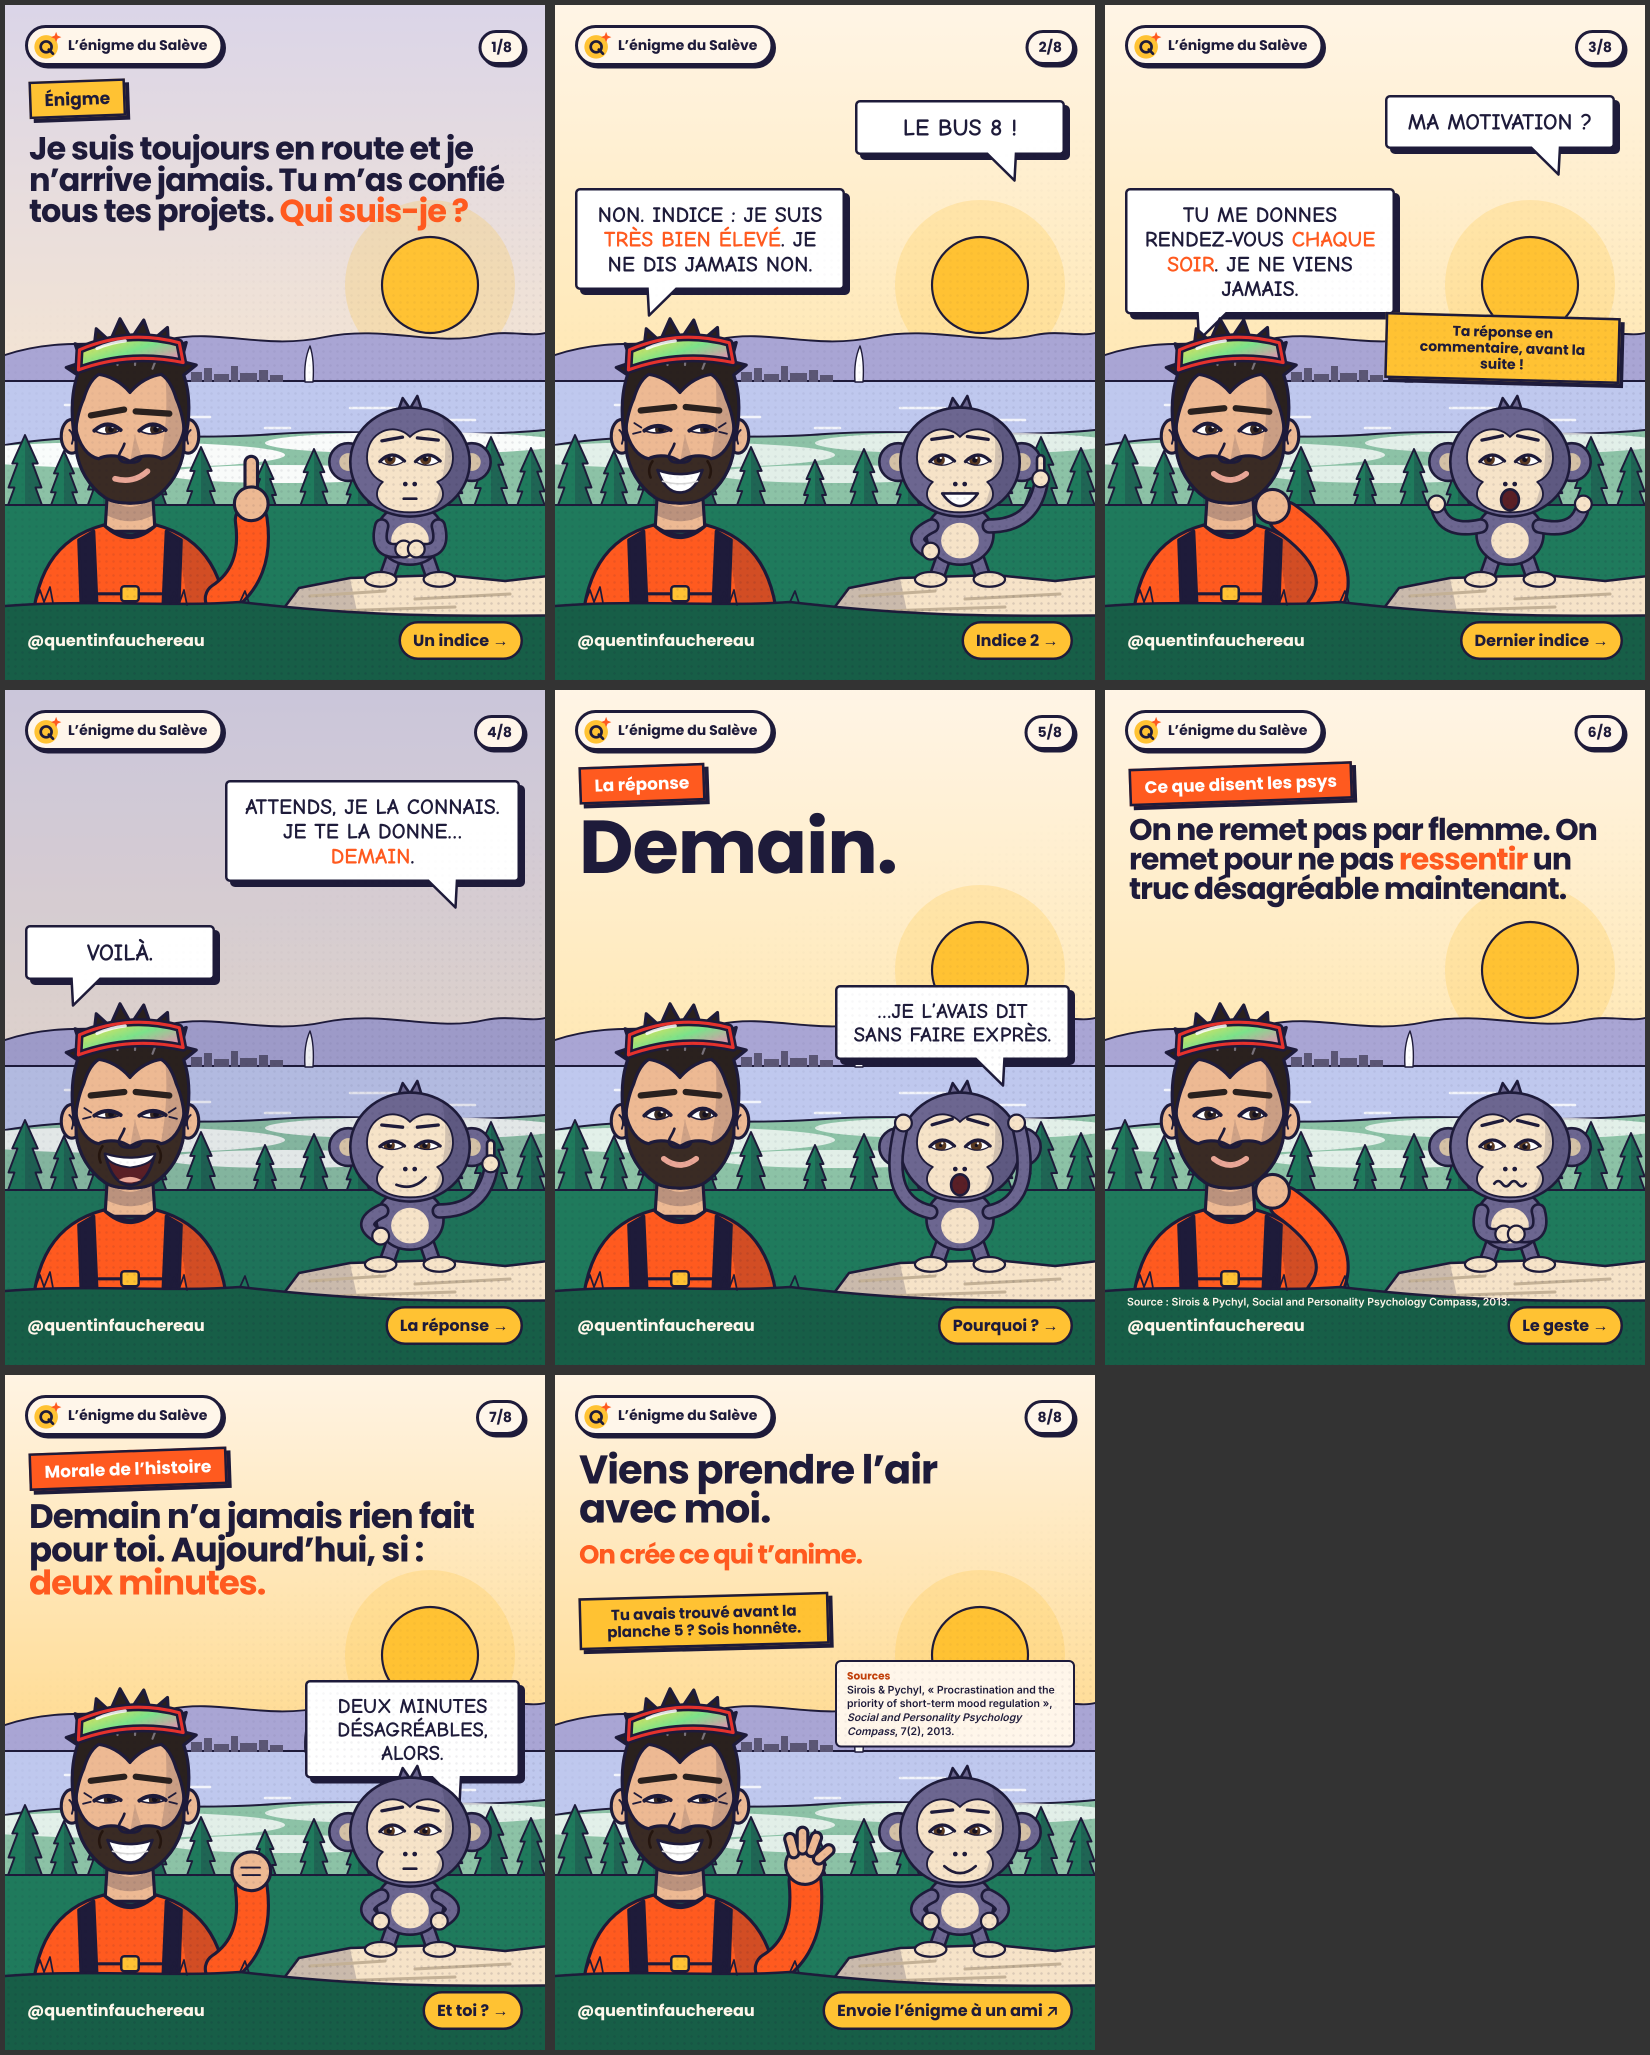
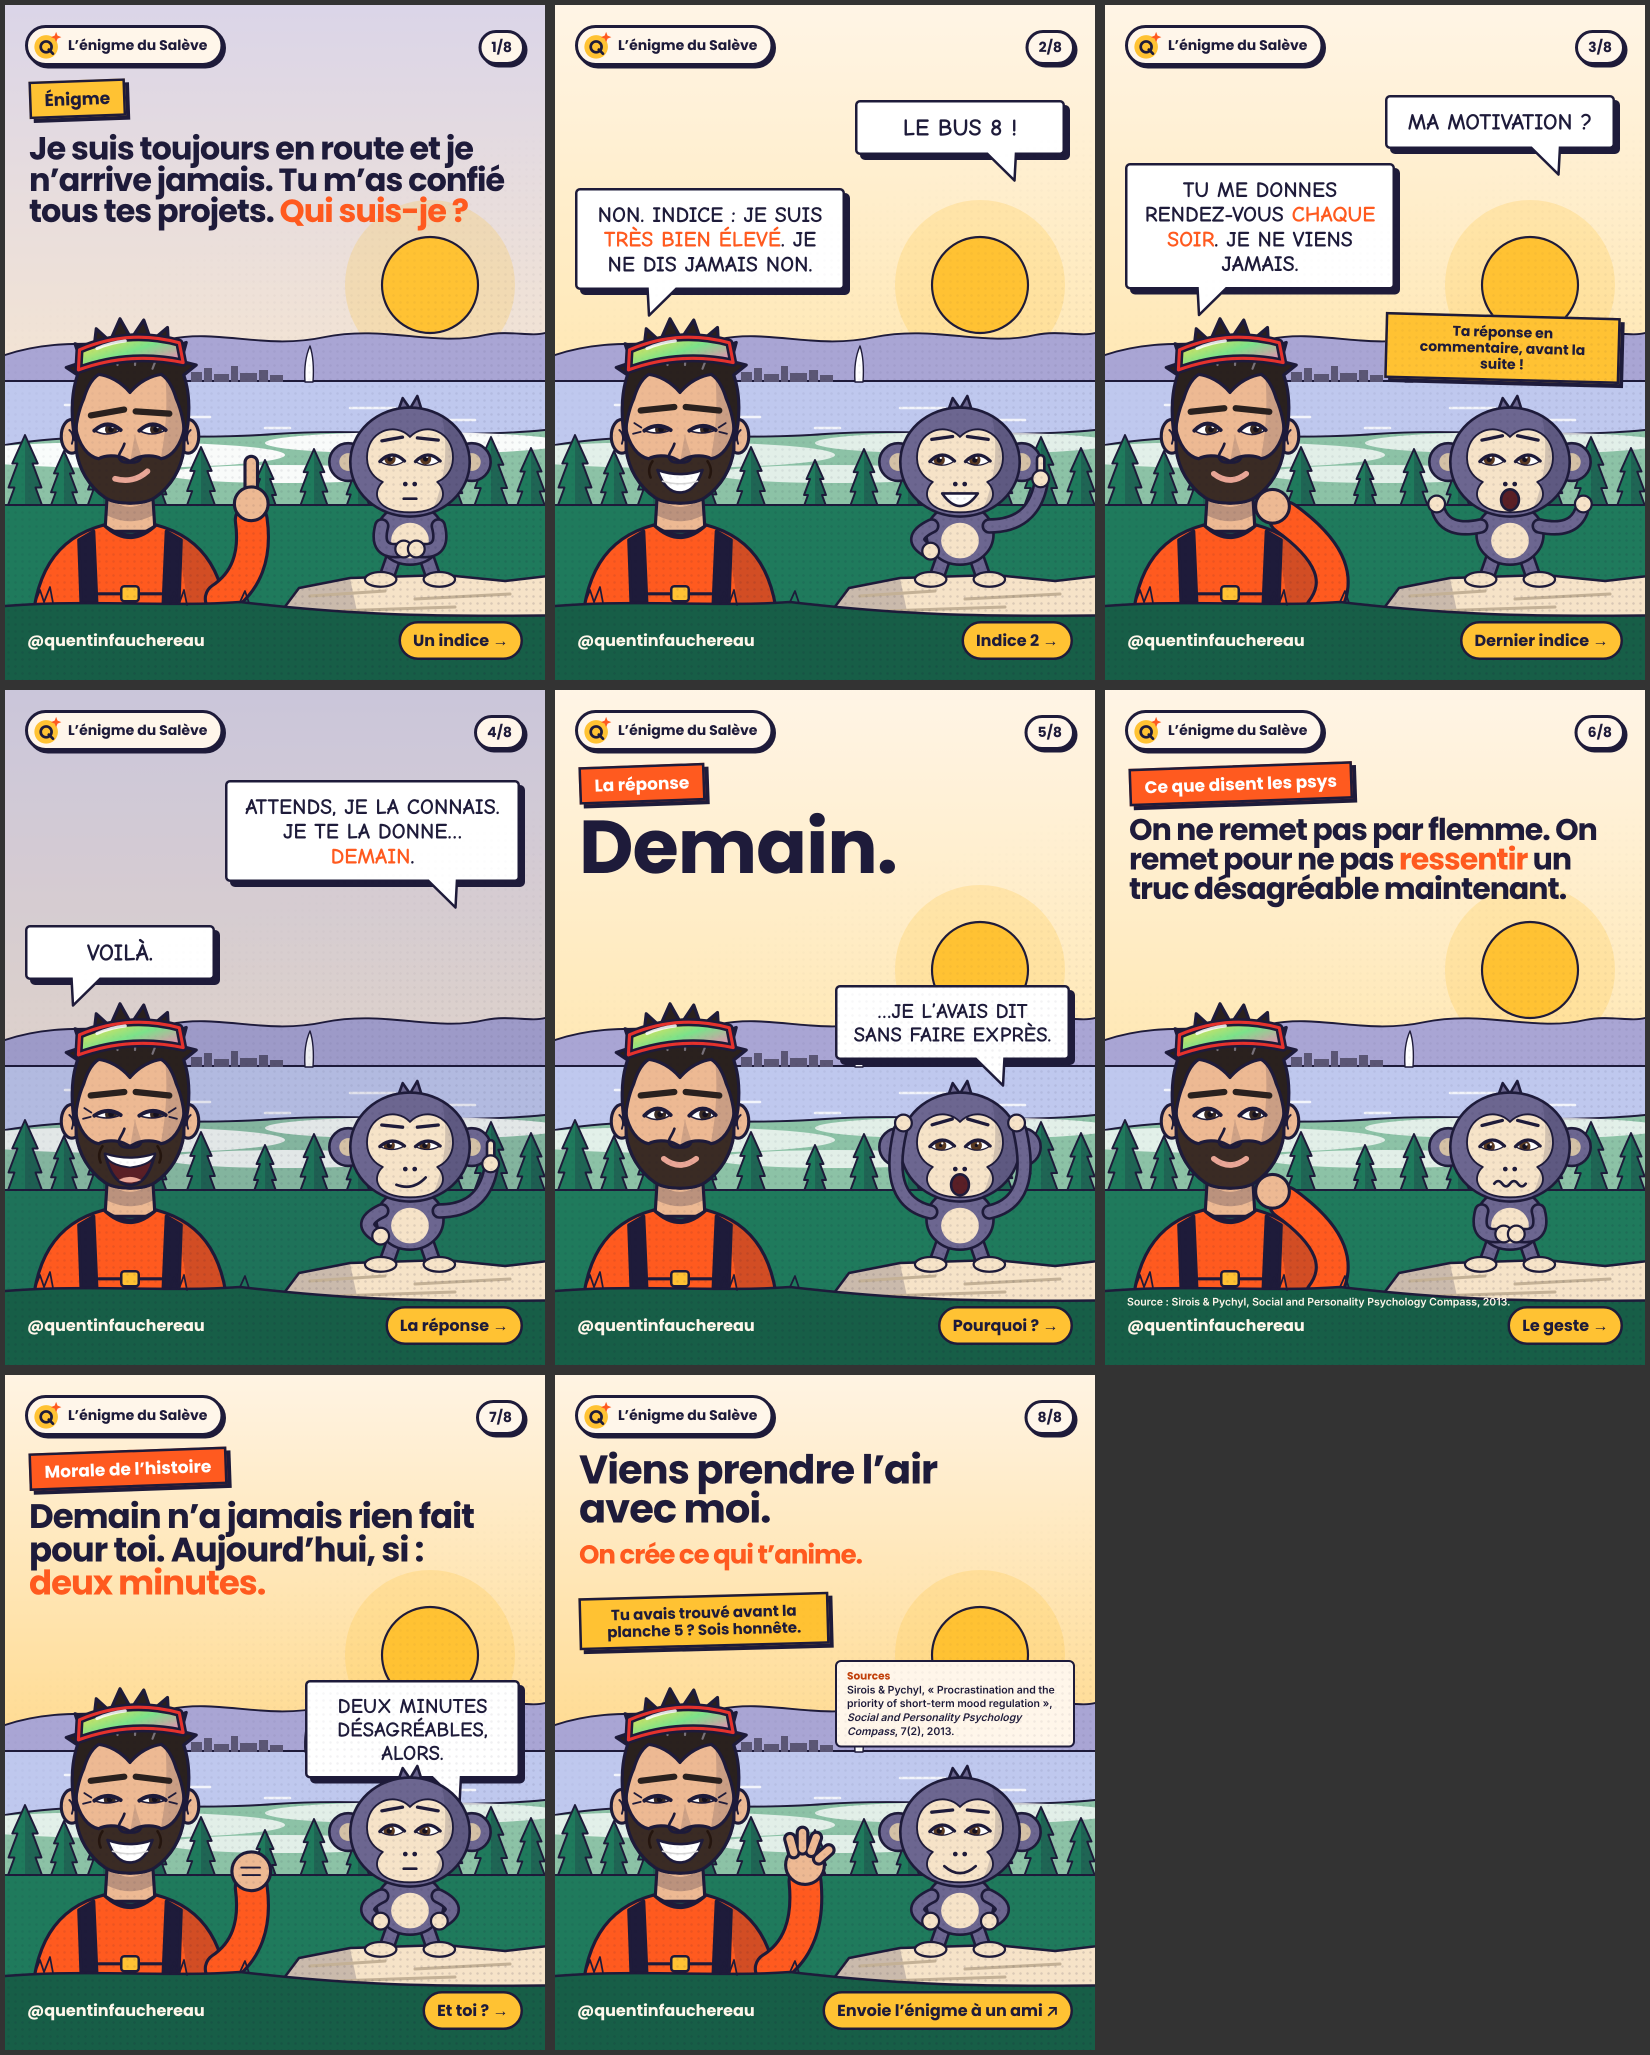
Dégage la bulle de la planche 3 de l'énigme « demain »
Claude-Session: https://claude.ai/code/session_01Ur5KmPTCazZvb9fFnorLVu

Changed region(s): [[0.68, 0.0623, 0.8655, 0.1557]]

diff --git a/episodes/08-enigme-demain.js b/episodes/08-enigme-demain.js
@@ -41,7 +41,7 @@ module.exports = {
     slide({ n: 3, total: T, series, cta: 'Dernier indice →', content: `
       ${saleve()}
       ${bubble({ x: 560, y: 180, w: 460, size: 46, tail: { at: 0.7, dir: 1 }, text: `Ma motivation${nb}?` })}
-      ${bubble({ x: 40, y: 366, w: 540, size: 44, tail: { at: 0.32, dir: -1 }, text: `Tu me donnes rendez-vous <b>chaque soir</b>. Je ne viens jamais.` })}
+      ${bubble({ x: 40, y: 316, w: 540, size: 44, tail: { at: 0.32, dir: -1 }, text: `Tu me donnes rendez-vous <b>chaque soir</b>. Je ne viens jamais.` })}
       ${caption({ x: 560, y: 620, w: 470, size: 28, bg: C.soleil, rot: 1.5, text: `Ta réponse en commentaire, avant la suite${nb}!` })}
       ${quentin({ ...Q, eyes: { px: 8, py: 0 }, brows: [-6, 6], browY: -4, mouth: 'default', arms: 'think' })}
       ${ground()}
